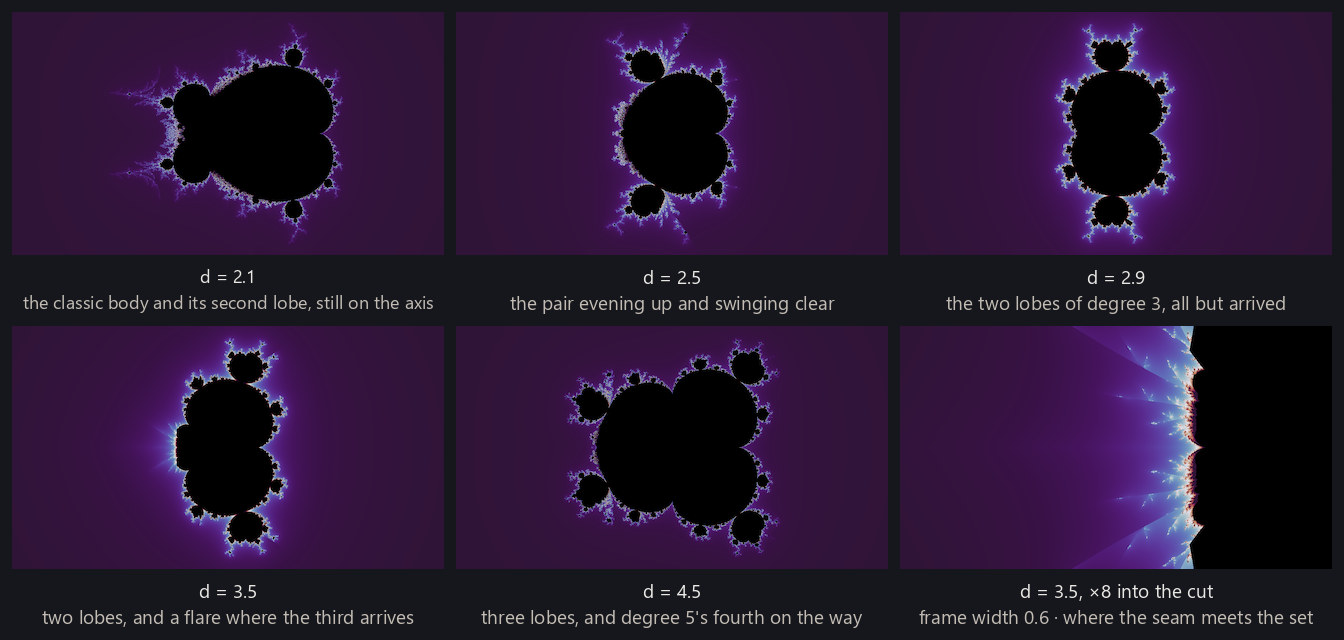
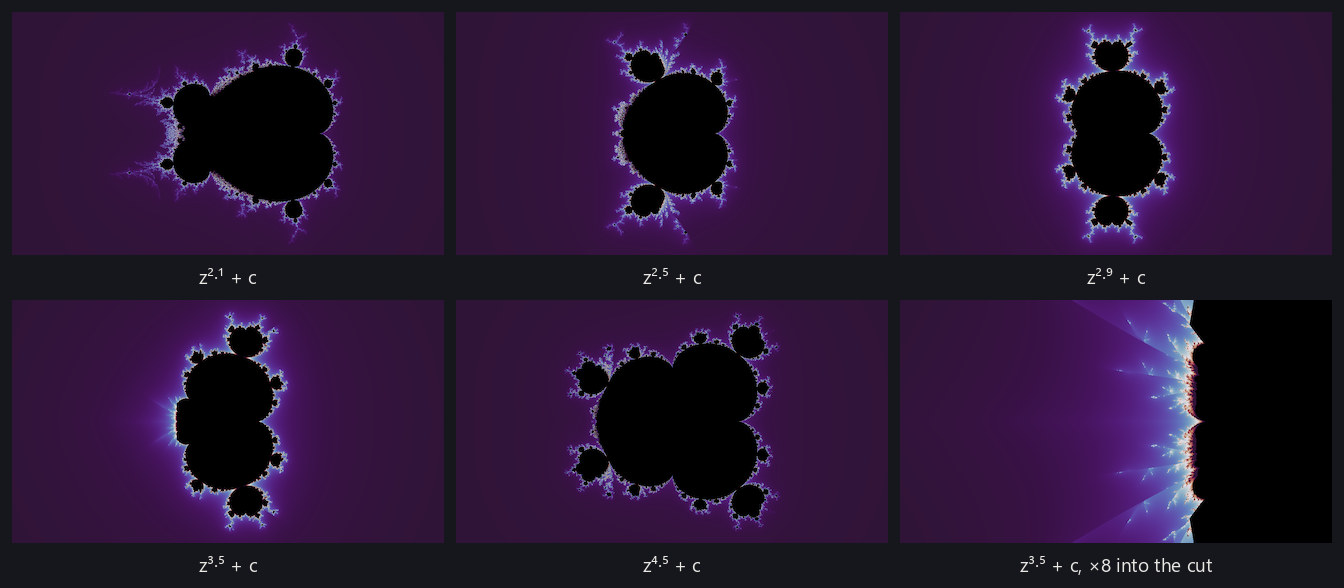
Fractional degrees says its own formula, two sentences go, and a maker comes in from the cold
escape-fractional-degrees loses the second label line under every tile, and the first
becomes the family's own iteration typeset the way escape-families two figures up
typesets its own: z²·¹ + c rather than d = 2.1. The seam close-up keeps ", ×8 into
the cut", being the same degree as the tile above it. One line of label is a narrower
band than two, so the sheet is 1344x588 where it was 1344x640. No panel changed.

Deleted, page and master together: "The shape was right the first time; the base was
eight times too low." from the iteration-cap paragraph, and ", and the picture was
there the whole time." from the render-percentile-stretch caption.

The maker is builder.families:fractional_degrees now, tracked, with its own
`python -m builder families` command on the diagrams.py pattern — separate from build
and no part of check, because tile labels rasterize through whatever font the machine
has. It replaces a scratch/figures/make_fractional.py that had been lost: 48 of the
article's 62 figures already keep their maker in builder/, 14 named a script under the
ignored tree, and 13 of those 14 are gone. This is the fourteenth not becoming the
fourteenth. The frames are transcribed off the figure's own provenance, and a fresh
render of the d = 2.1 panel reproduces the committed tile at a mean absolute
difference of 1.09 of 255.

Claude-Session: https://claude.ai/code/session_01W21beC9SwRXcD31yTzYouy

Changed region(s): [[0.0, 0.0306, 1.0, 0.4898], [0.0, 0.5204, 1.0, 0.9796]]

diff --git a/article/rendering-fundamentals.html b/article/rendering-fundamentals.html
@@ -160,7 +160,7 @@
     whole set. Those constants were measured rather than reasoned out: locations spanning
     ten octaves of depth were each walked up a ladder of caps until the rendered structure
     stopped changing, and the converged cap came out at a near-constant multiple of that
-    shape. The shape was right the first time; the base was eight times too low.</p>
+    shape.</p>
 
       <figure class="figure" data-figure="render-maxiter">
         <img src="../assets/images/figures/render-maxiter.jpg" width="1316" height="417" alt="One deep Mandelbrot location at a cap of 300 beside the same location at the automatic cap of 32,474.">
@@ -235,7 +235,7 @@
 
       <figure class="figure" data-figure="render-percentile-stretch">
         <a class="figure-open" href="../explorer/index.html?v=2&amp;x=-0.1592&amp;y=1.0341&amp;w=0.10&amp;p=Gold%20Field%2C%20Blood%20Spark" title="open in fractal explorer" aria-label="open in fractal explorer"><img src="../assets/images/figures/render-percentile-stretch.jpg" width="1316" height="417" alt="One Mandelbrot location with the palette spread linearly across the frame's whole range, beside the same field percentile-stretched against its own distribution."><span class="figure-open-mark" aria-hidden="true">↗</span></a>
-        <figcaption>The same field under two range mappings. On the left the palette is spread linearly from the frame's lowest value to its highest, 11 to 8,503; ninety-nine percent of the frame lies between 11 and 64, so almost the whole picture is drawn from the first 0.6% of the gradient and the rest is spent on a handful of samples along the boundary. On the right the percentile stretch measures the working range from the field's own distribution, and the picture was there the whole time.</figcaption>
+        <figcaption>The same field under two range mappings. On the left the palette is spread linearly from the frame's lowest value to its highest, 11 to 8,503; ninety-nine percent of the frame lies between 11 and 64, so almost the whole picture is drawn from the first 0.6% of the gradient and the rest is spent on a handful of samples along the boundary. On the right the percentile stretch measures the working range from the field's own distribution.</figcaption>
       </figure>
 
     <h2 id="the-smooth-rendering">The smooth rendering</h2>

diff --git a/article/escape-time-fractals.html b/article/escape-time-fractals.html
@@ -190,7 +190,7 @@
     explorer will draw them; the wallpaper search never touches them.</p>
 
       <figure class="figure" data-figure="escape-fractional-degrees">
-        <img src="../assets/images/figures/escape-fractional-degrees.jpg" width="1344" height="640" alt="Five sets at fractional degrees (d = 2.1, 2.5, 2.9, 3.5 and 4.5), each whole in its own frame, with a close-up of the branch-cut seam at d = 3.5.">
+        <img src="../assets/images/figures/escape-fractional-degrees.jpg" width="1344" height="588" alt="Five sets at fractional degrees (d = 2.1, 2.5, 2.9, 3.5 and 4.5), each whole in its own frame, with a close-up of the branch-cut seam at d = 3.5.">
         <figcaption>Five principal-branch fractional-degree parameter planes, each whole in its own frame, with a close-up of the seam at d = 3.5. A fractional degree between two integers is caught between their lobe arrangements, with the next lobe part-grown. The straight line across the close-up is the branch cut, where the chosen value of the fractional power jumps; another branch would move that discontinuity rather than remove it.</figcaption>
       </figure>
 

diff --git a/builder/families.py b/builder/families.py
@@ -1,0 +1,113 @@
+"""The Escape-time fractals page's sheets of renders, drawn here rather than in `scratch/`.
+
+**A figure's maker belongs in the repository.** The registry's `provenance` records how a
+picture was made and is the answer to *where did this come from*; it is not a program, and
+a redraw off it is archaeology. Forty-eight of the article's figures already have their
+maker in this package, and the fourteen that named a script under ignored `scratch/` were
+the exception — thirteen of those scripts are gone, which is how `escape-julia-map` came
+to be patchable and not recomposable. This module is where that exception stops growing:
+a sheet of engine renders for the Escape-time fractals page is composed here, tracked, and
+runnable by anyone with the wallpapers checkout configured.
+
+    python -m builder families escape-fractional-degrees
+
+writes the asset into `assets/images/figures/` and prints the size to record in
+`figures.jsonl`. Like `diagrams`, it is a **separate command from `build` and no part of
+`check`**: the tile labels are rasterized through whatever font the machine has, so two
+machines agree about the picture and not about its bytes. Unlike `diagrams`, it reaches
+the engine next door, which is reading and lands in this repository's ignored `artifacts/`.
+
+A frame here is transcribed from the figure's own registry row and never recomputed. The
+frames were originally chosen by re-deriving the engine's framing rule per degree; that
+derivation is the record's to describe, and a maker that re-derived it would be free to
+answer differently and quietly move a picture nobody asked to move.
+"""
+
+from __future__ import annotations
+
+from pathlib import Path
+
+from . import renders, sheets
+from .paths import FIGURE_IMAGES_DIR
+
+#: The panel every sheet in this module is composed at, and the engine settings behind it.
+PANEL = (432, 243)
+SUPERSAMPLE = 3
+COLORMAP = "twilight_shifted"
+
+#: A degree's exponent, typeset. This page's own `escape-families` draws `z² + c` under the
+#: Mandelbrot plane, so a fractional degree is written the same way rather than in
+#: programmer notation *(Matt, 2026-09-06)*.
+SUPERSCRIPT = {
+    "0": "⁰",
+    "1": "¹",
+    "2": "²",
+    "3": "³",
+    "4": "⁴",
+    "5": "⁵",
+    "6": "⁶",
+    "7": "⁷",
+    "8": "⁸",
+    "9": "⁹",
+}
+
+#: `escape-fractional-degrees`, one line per panel: degree, centre, width, and whatever the
+#: label has to say past the formula. Transcribed off that figure's `provenance`.
+#:
+#: The last panel is the branch-cut close-up. It is the same degree as the panel above it,
+#: so its label carries where it is looking as well as what it is looking at — the formula
+#: alone would not say which of the two a reader is on.
+FRACTIONAL = (
+    ("2.1", "-0.65", "0.0", "4.3", ""),
+    ("2.5", "-0.21", "0.0", "5.3", ""),
+    ("2.9", "-0.03", "0.0", "5.3", ""),
+    ("3.5", "0.09", "0.0", "4.9", ""),
+    ("4.5", "-0.12", "0.0", "4.0", ""),
+    ("3.5", "-0.60", "0.0", "0.6", ", ×8 into the cut"),
+)
+
+
+def formula(degree: str) -> str:
+    """`z` raised to this degree, plus c — the label under a fractional-degree panel."""
+    raised = "".join("·" if character == "." else SUPERSCRIPT[character] for character in degree)
+    return f"z{raised} + c"
+
+
+def _panel(index: int, degree: str, center_re: str, center_im: str, width: str) -> Path:
+    """One fractional-degree plane, through the engine and into the ignored render cache."""
+    spec = {
+        "schema": 1,
+        "family": {"kind": "fractional_multibrot", "degree": degree},
+        "viewport": {"center_re": center_re, "center_im": center_im, "width": width},
+        "resolution": list(PANEL),
+        "supersample": SUPERSAMPLE,
+        "mode": "smooth",
+        "colormap": COLORMAP,
+    }
+    out = renders.default_cache_root() / "fractional" / f"{index}-d{degree}-w{width}.png"
+    return renders.render(spec, out)
+
+
+def fractional_degrees(destination: Path) -> tuple[int, int]:
+    """Five fractional-degree planes and the seam close-up, three across."""
+    panels = [
+        (_panel(index, degree, center_re, center_im, width), formula(degree) + tail)
+        for index, (degree, center_re, center_im, width, tail) in enumerate(FRACTIONAL)
+    ]
+    sheet, _ = sheets.panel_grid(panels, 3, panel=PANEL)
+    sheet.save(destination, quality=88, subsampling=0)
+    return sheet.size
+
+
+#: Figure id to the file it writes and the maker that writes it.
+SHEETS = {
+    "escape-fractional-degrees": ("escape-fractional-degrees.jpg", fractional_degrees),
+}
+
+
+def draw(identifier: str) -> tuple[Path, int, int]:
+    """Draw one sheet into the figures directory; return where it went and its size."""
+    file, maker = SHEETS[identifier]
+    destination = FIGURE_IMAGES_DIR / file
+    width, height = maker(destination)
+    return destination, width, height

diff --git a/builder/__main__.py b/builder/__main__.py
@@ -23,7 +23,7 @@ from pathlib import Path
 
 from . import atlas as atlas_module
 from . import build as build_module
-from . import checks, diagrams, figures, images, links, records, renders
+from . import checks, diagrams, families, figures, images, links, records, renders
 from . import curation as curation_module
 from . import explorer as explorer_module
 from . import growth as growth_module
@@ -303,6 +303,11 @@ def _parser() -> argparse.ArgumentParser:
 
     drawn = commands.add_parser("diagram", help="draw one of the figures that is not a render")
     drawn.add_argument("id", choices=sorted(diagrams.DIAGRAMS), help="the diagram's figure id")
+
+    sheeted = commands.add_parser(
+        "families", help="draw a sheet of renders on the Escape-time fractals page"
+    )
+    sheeted.add_argument("id", choices=sorted(families.SHEETS), help="the sheet's figure id")
 
     mapped = commands.add_parser("atlas", help="report the atlas record, or write its fixture")
     mapped.add_argument(
@@ -792,6 +797,14 @@ def _do_diagram(identifier: str) -> int:
     return 0
 
 
+def _do_families(identifier: str) -> int:
+    destination, width, height = families.draw(identifier)
+    relative = destination.relative_to(SITE_ROOT).as_posix()
+    size = destination.stat().st_size
+    print(f'wrote {relative}  "width": {width}, "height": {height}  ({size / 1024:.0f} KB)')
+    return 0
+
+
 def _do_prose(options: argparse.Namespace) -> int:
     """Hold each placed page to its approved master, word for word."""
     masters = prose_module.load_all()
@@ -946,6 +959,8 @@ def main(argv: list[str] | None = None) -> int:
             return _do_pipeline(options)
         if options.command == "diagram":
             return _do_diagram(options.id)
+        if options.command == "families":
+            return _do_families(options.id)
         if options.command == "prose":
             return _do_prose(options)
         if options.command == "review":

diff --git a/docs/page-review.md b/docs/page-review.md
@@ -234,8 +234,8 @@ faster machine, a rebuilt engine or a different worker count moves every cell.
 | page | written | prose master | last review round | figures | what is held, and why |
 | --- | --- | --- | --- | --- | --- |
 | `overview.html` | yes | `Overview v2.md` | none | 2 placed | **v2 placed 2026-09-06** (PLACE_overview_v2_0906), out of a second reviewer pass whose eighteen corrections were adjudicated into the master before it arrived. The logistics paragraph — repository, browser renderer, galleries — moves to the foot, with one sentence about explorer permalinks kept early because the first figure sits above the first paragraph; the three rhetorical questions become three named decisions; *location* is redefined as family, constants and frame, which is what [finding good locations] already teaches; the curation summary drops *quality first and then under constraints* and *every rendering mode represented*; and the cumulative-state claim is narrowed, because candidate renders are pruned and only each location's strongest survive. The body carried eighteen em-dashes and now carries none. **Both captions were rewritten with it**, in the registry, and are em-dash free. Three of the reviewer's corrections were deliberately not taken as written: its own unspaced em-dashes, its reasoning that mode floors precede quality optimization in the solve (they do not — a floor is a soft `Demand` in tier 2 of `curation.solve`'s lexicographic objective, and nothing is ever seated by relaxing a rule it failed), and *strange* as vocabulary. **The pipeline figure's drawn-in text now runs behind its caption**: the sheet still letters *quality first, then range* and *color balance · every mode*, which is the reading the new prose corrects, and clearing it is a redraw rather than an edit. **`overview-gallery-hook` was redrawn in the same round** *(Matt, 2026-09-06)*: its tile labels carried the family and then the rendering, and the mode line is gone — `builder/picks.py`'s `HOOK_LABEL_LINES` is 1 and the sheet is 1314×576 where it was 1314×628. The caption already says which row is smooth and which is not. The one line left now carries **the family and the iteration it runs**, the way `escape-families` carries one under each of its plane tiles: `family_with_formula` and the `FAMILY_FORMULA` table beside it, with the step subscripts dropped and Phoenix keeping the one subscript that is the whole of what its formula says. A Julia is spelled with its plane's own iteration, since what differs is which of `z` and `c` the pixel moves. No pick changed and no panel was re-rendered from a different recipe. **Four follow-up edits landed 2026-09-06** in the same round as the Escape-time fractals placement (PLACE_escape_time_fractals_v1_0906): the repository is now linked at its first mention in the opening paragraph as well as in the closing logistics paragraph, which is intended; *escape-time fractals* gains "the most popular of which is the famous [Mandelbrot set]"; and the `overview-pipeline` caption drops its closing sentence tracing the first location down through the bands, which the figure still draws and the caption no longer narrates |
-| `escape-time-fractals.html` | yes | `Escape-time fractals v1.md` | none | 7 placed | **v1 placed 2026-09-06** (PLACE_escape_time_fractals_v1_0906), and this page's **first** master — its HTML had been its own until now. Out of a reviewer pass of nineteen corrections plus two questions, adjudicated into the master before it arrived. The taxonomy in the lead is corrected (Mandelbrot is the degree-2 multibrot, and Julia is the same recurrence read on the dynamical plane, so they are not four independent recurrences); the polar form replaces the false contrast with real-valued sequences; the iteration cap is named where the definition becomes an algorithm; the *filled Julia set* is distinguished from the Julia set, which the connectedness theorem needs two paragraphs later; the universal boundary claims are hedged; the branch seam stops being called an artifact, because the branch is part of the definition of the single-valued rule; the (c, p) "plane" framing is dropped; the family paragraph stops claiming the released gallery is family-balanced; and *location* is redefined to match [finding good locations]. Two places correct the reviewer instead: fractional degrees do not only interpolate between integer shapes, since the renderer's floor is degree 1.8 and reaches below the quadratic degree; and the multibrot symmetry paragraph gains the dynamical-plane half, which is d-fold rather than one fold fewer and holds for a different reason. The body carried **22** em-dashes and now carries none — the master's own editorial header said seventeen, which is its miscount. **All seven captions were rewritten with it**, in the registry, and are em-dash free; four of the seven alt strings were rewritten too, three for em-dashes and `escape-phoenix` for the (c, p) framing. *location* is placed **plain** rather than italic as the master marks it, because Overview reaches the term first and the italic rule counts once for the whole article in reading order. **`escape-families`'s drawn-in text still runs behind its caption**: the sheet letters *elsewhere in the (c, p) plane* under two Phoenix tiles, which is the framing this round took out of the prose and the captions, and its plane labels are spelled with em-dashes (*Mandelbrot — z² + c*). Both are past CSS's reach, so clearing them is a redraw rather than an edit. `escape-phoenix` needed nothing: its own labels already spell c, p and z₋₁ out. **Two edits landed 2026-09-06** with the Rendering modes v4 placement (PLACE_rendering_modes_v4_0906), applied to the page and to v1 in place rather than as a v2: the lead paragraph drops *, and a render-only extension to fractional degrees* and ends at the Phoenix recurrence *(Matt's call: not important enough for the opening paragraph, and the page still has its own Fractional degrees section)*; and **`escape-julia-map`'s drawn-in caption line was redrawn** so it spells *color* rather than *colour* — the site is American spelling in everything a reader sees, and text drawn into a sheet is the one surface a text sweep never reaches. The sheet's own maker is gone from ignored `scratch/`, so the strip's parameters were recovered by fitting `builder.sheets` and `builder.theme` against the committed picture — centred over the full sheet width at y = 758 in `font(20)` and `WELL_INK` on `WELL`, reproducing the committed band to a mean absolute difference of 1.19 of 255 — and only that band was refilled and redrawn; every panel is the picture that was already there. The redraw is recorded on the figure's own `provenance`. A sweep of every other drawn-in string found no second instance: `builder/`'s drawn literals are all American, and the twelve other sheets composed under ignored `scratch/` were read one by one |
-| `rendering-fundamentals.html` | yes | `Rendering fundamentals v1.md` | none | 6 placed | **v1 placed 2026-09-06** (PLACE_rendering_fundamentals_v1_0906), and this page's **first** master — its HTML had been its own until now. Out of a reviewer pass of seventeen corrections plus a cross-section note and two questions, adjudicated into the master before it arrived. Four of the findings were real errors rather than looseness, and all four are corrected: the printed smooth-count formula is now the one `iterate.rs` computes, with the bailout named as 2<sup>16</sup> and the mathematical minimum corrected from 2 to 2 raised to the power 1/(d − 1); reaching the cap no longer *declares* an orbit interior, because it decides nothing about the orbit; supersampling is no longer per-pixel averaging but the Lanczos-3 reduction `resample.rs` actually runs, in linear light, at a radius of three *output* pixels; and the dynamic-range paragraph no longer spreads the palette to the iteration cap, which is not what the figure under it compares. Two places correct the reviewer instead: the log-log clock intuition is kept and only its equation changes, and the *mathematical minimum of 2* line is corrected rather than deleted. **Terminology: the field operator is the *percentile stretch* throughout**, matching the engine's own `Stretch`, and *leveling* is left to mean only the finished-image autolevel that Color palettes covers — Rendering modes' three uses of the old sense were corrected in the same round. The body carried **25** em-dashes and now carries none, and the two the captions carried are gone as well. **All six captions were rewritten with it**, in the registry, and one alt string. **`render-autolevel` is renamed `render-percentile-stretch`** — registry row, link row, page block and the asset file, since a filename is vocabulary a reader meets; the pictures are unchanged and the `recipe` still names the `autolevel` function under ignored `scratch/` that drew them, which is what was actually run. Two caption claims are dropped rather than reworded and should not come back: `render-supersample` no longer says nothing later in the pipeline can put back what the sampling missed, which framed supersampling as detail recovery rather than as reconstruction, and `render-maxiter` no longer *declares* orbits interior. The master's eight-item verification list was worked against the engine source and **nothing in it needed correcting**: `maxiter.rs` still reads `BASE` 4000, `PER_OCTAVE` 0.30, `FLOOR` 200, `CEILING` 67,000 and `HOME_WIDTH` 3.0; `iterate.rs` still has `BAILOUT` 2<sup>16</sup> and pins the floor of the smooth count to the integer count in a test of its own; `resample.rs` still filters Lanczos-3 in linear light at a radius of three output pixels with one encode at the end; `coloring.rs`'s `CLIP_LOW` and `CLIP_HIGH` are still 0.5 and 99.5 over finite samples only, and a crop still stretches against its own; and `curation.run_layout.RELEASE_SUPERSAMPLE` is still 4. The `#multibrot-sets` link is gone from this page — the smooth-count paragraph names the degree instead — and the anchor stays where it is, because Escape-time fractals' own rail links to it |
+| `escape-time-fractals.html` | yes | `Escape-time fractals v1.md` | none | 7 placed | **v1 placed 2026-09-06** (PLACE_escape_time_fractals_v1_0906), and this page's **first** master — its HTML had been its own until now. Out of a reviewer pass of nineteen corrections plus two questions, adjudicated into the master before it arrived. The taxonomy in the lead is corrected (Mandelbrot is the degree-2 multibrot, and Julia is the same recurrence read on the dynamical plane, so they are not four independent recurrences); the polar form replaces the false contrast with real-valued sequences; the iteration cap is named where the definition becomes an algorithm; the *filled Julia set* is distinguished from the Julia set, which the connectedness theorem needs two paragraphs later; the universal boundary claims are hedged; the branch seam stops being called an artifact, because the branch is part of the definition of the single-valued rule; the (c, p) "plane" framing is dropped; the family paragraph stops claiming the released gallery is family-balanced; and *location* is redefined to match [finding good locations]. Two places correct the reviewer instead: fractional degrees do not only interpolate between integer shapes, since the renderer's floor is degree 1.8 and reaches below the quadratic degree; and the multibrot symmetry paragraph gains the dynamical-plane half, which is d-fold rather than one fold fewer and holds for a different reason. The body carried **22** em-dashes and now carries none — the master's own editorial header said seventeen, which is its miscount. **All seven captions were rewritten with it**, in the registry, and are em-dash free; four of the seven alt strings were rewritten too, three for em-dashes and `escape-phoenix` for the (c, p) framing. *location* is placed **plain** rather than italic as the master marks it, because Overview reaches the term first and the italic rule counts once for the whole article in reading order. **`escape-families`'s drawn-in text still runs behind its caption**: the sheet letters *elsewhere in the (c, p) plane* under two Phoenix tiles, which is the framing this round took out of the prose and the captions, and its plane labels are spelled with em-dashes (*Mandelbrot — z² + c*). Both are past CSS's reach, so clearing them is a redraw rather than an edit. `escape-phoenix` needed nothing: its own labels already spell c, p and z₋₁ out. **Two edits landed 2026-09-06** with the Rendering modes v4 placement (PLACE_rendering_modes_v4_0906), applied to the page and to v1 in place rather than as a v2: the lead paragraph drops *, and a render-only extension to fractional degrees* and ends at the Phoenix recurrence *(Matt's call: not important enough for the opening paragraph, and the page still has its own Fractional degrees section)*; and **`escape-julia-map`'s drawn-in caption line was redrawn** so it spells *color* rather than *colour* — the site is American spelling in everything a reader sees, and text drawn into a sheet is the one surface a text sweep never reaches. The sheet's own maker is gone from ignored `scratch/`, so the strip's parameters were recovered by fitting `builder.sheets` and `builder.theme` against the committed picture — centred over the full sheet width at y = 758 in `font(20)` and `WELL_INK` on `WELL`, reproducing the committed band to a mean absolute difference of 1.19 of 255 — and only that band was refilled and redrawn; every panel is the picture that was already there. The redraw is recorded on the figure's own `provenance`. A sweep of every other drawn-in string found no second instance: `builder/`'s drawn literals are all American, and the twelve other sheets composed under ignored `scratch/` were read one by one. **`escape-fractional-degrees` was redrawn the same day** *(Matt)*: each tile carried two label lines and now carries one, and that line is the family's own iteration typeset the way `escape-families` typesets its own — *z²·¹ + c* rather than *d = 2.1* — so the second lines (*the classic body and its second lobe, still on the axis* and its four siblings) are gone. The seam close-up keeps *, ×8 into the cut*, being the same degree as the tile above it. One line of label is a narrower band than two, so the sheet is 1344×588 where it was 1344×640; no panel changed. **Its maker is now `builder.families:fractional_degrees` and tracked** — the `scratch/figures/make_fractional.py` the row used to name was one of fourteen makers under the ignored tree, thirteen of which are lost, and it is rebuilt from the row's own six render lines and held to the committed picture by a fresh render of the d = 2.1 panel reproducing the committed tile at 1.09 of 255 |
+| `rendering-fundamentals.html` | yes | `Rendering fundamentals v1.md` | none | 6 placed | **v1 placed 2026-09-06** (PLACE_rendering_fundamentals_v1_0906), and this page's **first** master — its HTML had been its own until now. Out of a reviewer pass of seventeen corrections plus a cross-section note and two questions, adjudicated into the master before it arrived. Four of the findings were real errors rather than looseness, and all four are corrected: the printed smooth-count formula is now the one `iterate.rs` computes, with the bailout named as 2<sup>16</sup> and the mathematical minimum corrected from 2 to 2 raised to the power 1/(d − 1); reaching the cap no longer *declares* an orbit interior, because it decides nothing about the orbit; supersampling is no longer per-pixel averaging but the Lanczos-3 reduction `resample.rs` actually runs, in linear light, at a radius of three *output* pixels; and the dynamic-range paragraph no longer spreads the palette to the iteration cap, which is not what the figure under it compares. Two places correct the reviewer instead: the log-log clock intuition is kept and only its equation changes, and the *mathematical minimum of 2* line is corrected rather than deleted. **Terminology: the field operator is the *percentile stretch* throughout**, matching the engine's own `Stretch`, and *leveling* is left to mean only the finished-image autolevel that Color palettes covers — Rendering modes' three uses of the old sense were corrected in the same round. The body carried **25** em-dashes and now carries none, and the two the captions carried are gone as well. **All six captions were rewritten with it**, in the registry, and one alt string. **`render-autolevel` is renamed `render-percentile-stretch`** — registry row, link row, page block and the asset file, since a filename is vocabulary a reader meets; the pictures are unchanged and the `recipe` still names the `autolevel` function under ignored `scratch/` that drew them, which is what was actually run. Two caption claims are dropped rather than reworded and should not come back: `render-supersample` no longer says nothing later in the pipeline can put back what the sampling missed, which framed supersampling as detail recovery rather than as reconstruction, and `render-maxiter` no longer *declares* orbits interior. The master's eight-item verification list was worked against the engine source and **nothing in it needed correcting**: `maxiter.rs` still reads `BASE` 4000, `PER_OCTAVE` 0.30, `FLOOR` 200, `CEILING` 67,000 and `HOME_WIDTH` 3.0; `iterate.rs` still has `BAILOUT` 2<sup>16</sup> and pins the floor of the smooth count to the integer count in a test of its own; `resample.rs` still filters Lanczos-3 in linear light at a radius of three output pixels with one encode at the end; `coloring.rs`'s `CLIP_LOW` and `CLIP_HIGH` are still 0.5 and 99.5 over finite samples only, and a crop still stretches against its own; and `curation.run_layout.RELEASE_SUPERSAMPLE` is still 4. The `#multibrot-sets` link is gone from this page — the smooth-count paragraph names the degree instead — and the anchor stays where it is, because Escape-time fractals' own rail links to it. **Two sentences deleted 2026-09-06** *(Matt)*, page and master together: the iteration-cap paragraph no longer ends *The shape was right the first time; the base was eight times too low*, and the `render-percentile-stretch` caption no longer ends *, and the picture was there the whole time* |
 | `rendering-modes.html` | yes | `Rendering modes v4.md` | none | 13 placed | **v4 placed 2026-09-06** (PLACE_rendering_modes_v4_0906), a wholesale replacement of v3, which is trashed in Drive. Out of a reviewer pass of thirty corrections plus three questions, **whose central structural claim is rejected and must not come back**: the reviewer read the engine's `Tier::Production` as the pipeline's roster and concluded the page was stale by six modes. It is not. `curation/mode_policy.py` puts `trap_circle`, `gaussian_int`, `smooth_trap_circle`, `direct_trap_ring`, `tail_itinerary` and `exp_smoothing` at weight zero — out of the draws and out of the gallery — and the thirteen this page describes are exactly the ones above zero, so every count on it was already right: five composites, four screened, three direct traps, one itinerary mode, thirteen table rows. Ten of the thirty corrections and the counts inside two more are dropped on that basis. What is taken, all checked against the engine source: `smooth_mean_angle` is the **lopsidedness** of the orbit's nearest, mean and farthest Gaussian-integer distances read as an angle — `field.rs`'s `Reduction::MeanAngle` is the angle of `(mean − nearest) + i(farthest − mean)` — and not the averaged approach direction the page and its caption both claimed; the orbit-trap paragraph no longer says every trap is centered on the origin and then contradicts itself three sentences later; `threads` no longer claims the loop has no early exit, which it has, and its kernel is named as the narrow bell `exp(−D²/σ²)`, σ = 0.15, additive at half strength; the debanding by the smooth count's fractional part is stated under stripe, which `field.rs` applies to `stripe`, `tia`, `curvature` and `threads` alike; curvature's motion categories are dropped; `de` is named as a mode the renderer will draw on request; normal-map lighting is named as a **deliberate** omission, in `mode.rs`'s own terms; and the histogram bullet carries the percentile-stretch name. **The thirteen-row quality and cost table and its placeholder footnote are carried through untouched and deliberately** — numbers on this site are checked and refreshed together when Matt says it is ready for publishing. The body carried **31** em-dashes and now carries none; **nine of the thirteen captions were rewritten**, eight of them em-dash recasts and `modes-smooth-mean-angle` a corrected definition, and the four left alone (`modes-stripe`, `modes-smooth-stripe`, `modes-direct-trap-multiply`, `modes-gallery`) were already clean. All thirteen alt strings are untouched and clean. One word of a supplied caption was authored here: `modes-smooth-mean-angle` reads *rather than standing at the origin* where the prompt wrote the banned word `builder/vocabulary.py` spells `sittin[g]`, and is written that way here for the same reason that module writes it that way. **Watch `curation.mode_policy.UNMINED`** *(Matt, 2026-09-06)*: `curvature` is now accepted in every respect but the draw, so the page's *two in other modes, drawn without replacement from the rest of the roster* is a roster of twelve for a gallery and eleven for a mine. The roster of thirteen this page teaches is unchanged and the sentence was left as the master wrote it |
 | `finding-good-locations.html` | yes | `Finding good locations v6.md` | applied 2026-08-21 | 10 placed | placed 2026-09-01 with the reframing channel; **pass 2 on 2026-09-04 closed the figure divergence** — `locations-walk-root` is deleted (block, asset, registry row, link row and master marker) and `locations-minibrot-examples` replaces it, so the master's twelve `[FIGURE]` markers and the page's twelve blocks now agree one for one and in order. The same pass swept the no-identifiers rule over every figure on the page, keeping frame widths, which are the subject on the framing ladder and the descent chain. **`locations-walk-step` retired 2026-09-05 and `locations-walk-descent` took its slot** — the animated one-expansion diagram is gone entirely (block, asset, registry row, link row, master marker, and its maker in `builder/locations.py`), and the new figure is five rows of one descent: the whole set beside four seed starts, three rungs of four proposals apiece with the location judge's estimate printed under each, then the location it kept beside four wallpapers of it. **It is Matt's to review**, and two things on it are decisions rather than readings — the descent is composed rather than replayed, because a real walk seeded on the home view dies at depth 3 with every proposal refused on interior or occupancy; and the first row's four estimates are all 0.00, which is the plane-root waiver the page's own Score paragraph describes. **A figure pass on 2026-09-05 took the page from twelve blocks to eleven**: `locations-walk-examples` and `locations-found-and-finished` are deleted outright, `locations-highly-rated` takes the second one's slot — a plain 4×4 grid of sixteen class-4 locations, no labels and no numbers on it — and `locations-reframe-examples` keeps its structure with its bottom strip re-picked onto node 5810, where every operator's best proposal clears 0.82 against the 0.00 the neighborhood operator scored at node 5700. **v6 placed 2026-09-05** (PLACE_locations_v6_0905): Matt's em-dash pass over the body — the page carried 39 in its prose and now carries none, every one recast as a parenthesis, a colon or a sentence break — plus the *Examining walk quality* opener losing its third clause, and the framing-ladder passage condensed to the direction the ladder aims. **`locations-framing-ladder` is deleted** (block, asset, registry row, link row, and its maker and `LADDER_NODE` in `builder/locations.py`; `FRAMINGS` stays, the descent chain reads it), which is what took the page from eleven blocks to ten. One sentence went with the pass that the master's own changelog does not name: *A snap is a correction, not a teleport* is off the `snap_to_nucleus` paragraph, placed as the master reads. Two captions moved: `locations-walk-descent` lost the clause excusing its top row's zeroes. **The caption half was swept on 2026-09-05**: the four em-dashes the ten remaining captions carried are recast, and `locations-reframe-examples` is rewritten outright — it told a reader two of three answers score lower than the frame that triggered them, which is true of its top three rows and the opposite of what the re-picked strip below them shows |
 | `training-judges.html` | yes | `Training judges v5.md` | applied 2026-08-21 | 3 placed | **numbers refreshed at publishing** *(Matt, 2026-09-05)*: *The corpus holds ratings for more than twelve thousand locations, about six thousand smooth renders, and about five thousand renders in the other modes.* The counts stand as written and no round re-reads them until publishing is near — no thrash on counts before then |
